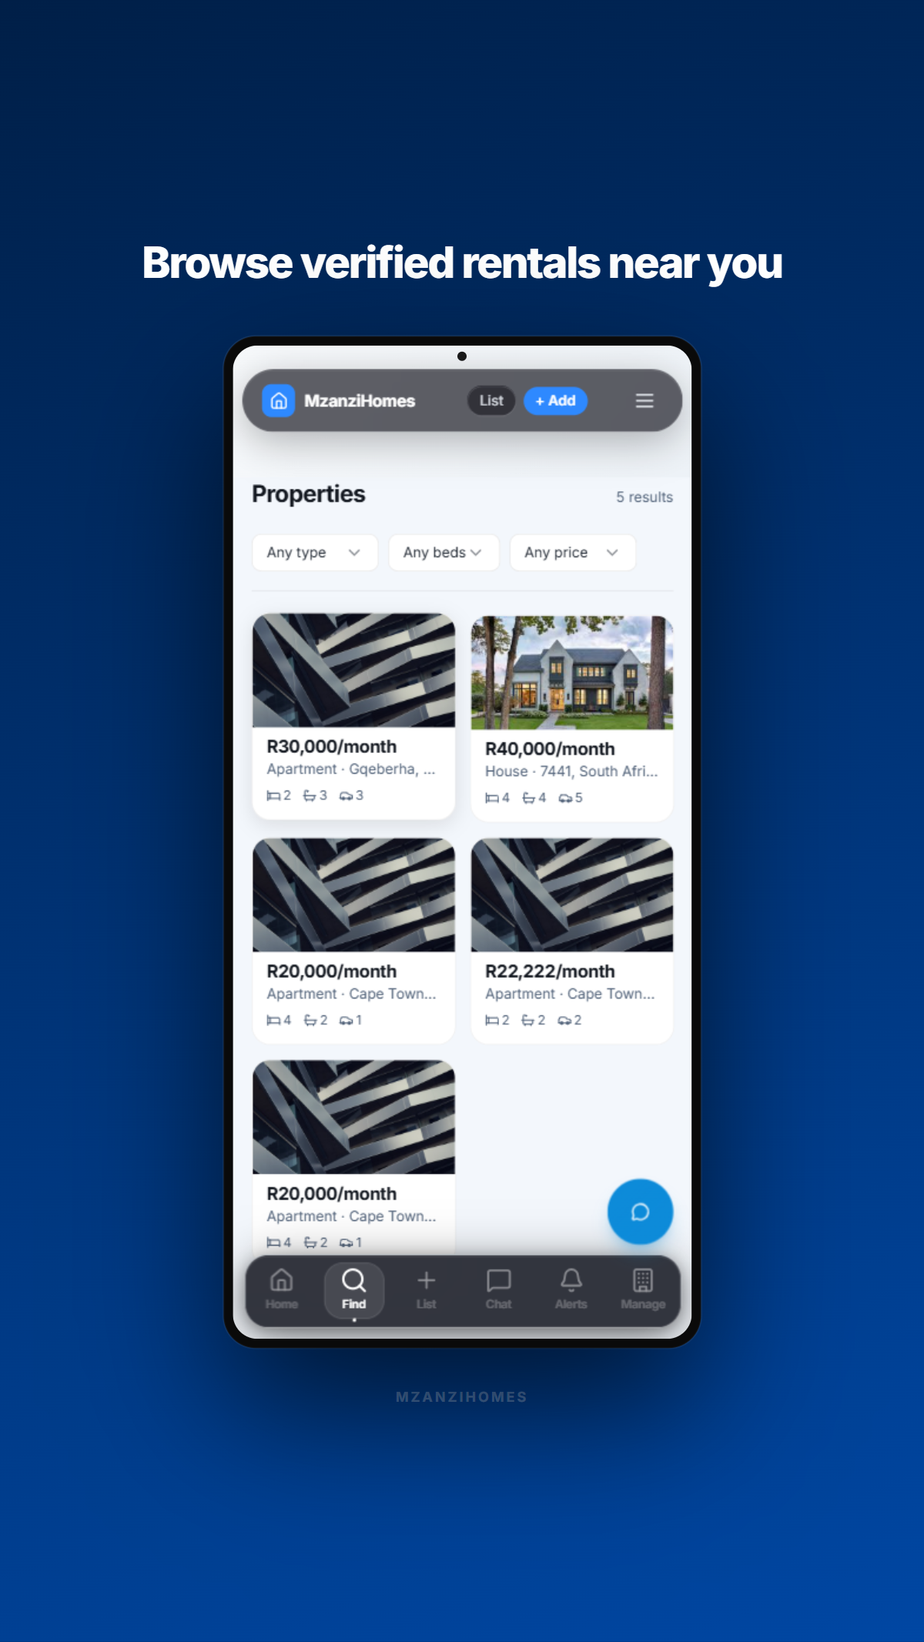
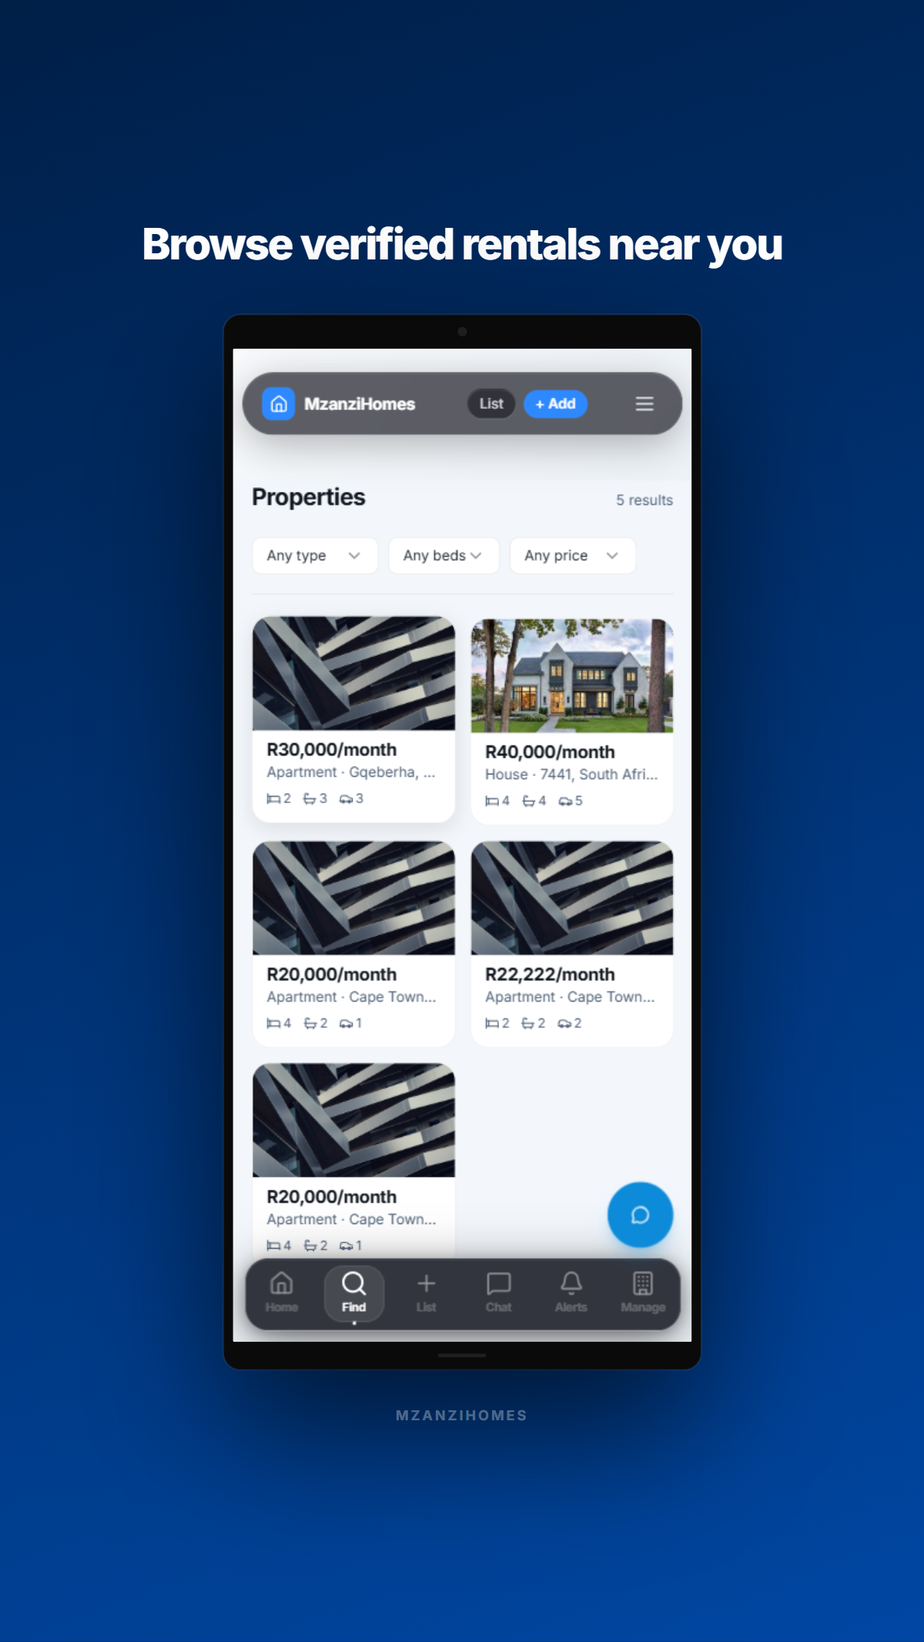
fix(play-store): redesign tablet frames to look distinct from phone
Replace phone-style rounded frame with proper tablet frame:
- Flat corners (border-radius 18px/22px vs phone 54px)
- Structured top bezel with centred camera dot
- Bottom bezel with home gesture bar
- Screen inset with straight edges

diff --git a/docs/play-store/screenshots/tablet10-3.html b/docs/play-store/screenshots/tablet10-3.html
@@ -3,14 +3,21 @@
 <style>
 *,*::before,*::after{box-sizing:border-box;margin:0;padding:0}
 body{width:1200px;height:2133px;overflow:hidden;background:linear-gradient(160deg,hsl(214,100%,14%) 0%,hsl(214,100%,32%) 100%);font-family:'Inter',-apple-system,sans-serif;display:flex;flex-direction:column;align-items:center;justify-content:center;padding:100px 80px}
-.caption{color:white;font-size:56px;font-weight:800;text-align:center;line-height:1.15;margin-bottom:64px;letter-spacing:-2px;max-width:1000px}
-.tablet{width:620px;background:#0a0a0a;border-radius:42px;padding:12px;box-shadow:0 80px 180px rgba(0,0,0,0.65),0 0 0 1.5px rgba(255,255,255,0.08),inset 0 0 0 1px rgba(255,255,255,0.04);position:relative}
-.camera{position:absolute;top:20px;left:50%;transform:translateX(-50%);width:12px;height:12px;background:#1a1a1a;border-radius:50%;z-index:10}
-.screen{border-radius:32px;overflow:hidden;width:100%}
+.caption{color:white;font-size:56px;font-weight:800;text-align:center;line-height:1.15;margin-bottom:60px;letter-spacing:-2px;max-width:1000px}
+.tablet{width:620px;background:#0a0a0a;border-radius:22px;box-shadow:0 80px 180px rgba(0,0,0,0.65),0 0 0 1.5px rgba(255,255,255,0.08),inset 0 0 0 1px rgba(255,255,255,0.04);display:flex;flex-direction:column}
+.t-bar{height:44px;display:flex;align-items:center;justify-content:center;flex-shrink:0}
+.cam{width:12px;height:12px;background:#1e1e1e;border-radius:50%}
+.screen{margin:0 12px;overflow:hidden;border-radius:2px}
 .screen img{width:100%;display:block}
-.brand{color:rgba(255,255,255,0.3);font-size:18px;font-weight:700;margin-top:52px;letter-spacing:3px;text-transform:uppercase}
+.b-bar{height:36px;display:flex;align-items:center;justify-content:center;flex-shrink:0}
+.home{width:62px;height:5px;background:#1e1e1e;border-radius:3px}
+.brand{color:rgba(255,255,255,0.3);font-size:18px;font-weight:700;margin-top:48px;letter-spacing:3px;text-transform:uppercase}
 </style></head><body>
 <div class="caption">Everything you need to decide</div>
-<div class="tablet"><div class="camera"></div><div class="screen"><img src="raw-2-property-detail.png"/></div></div>
+<div class="tablet">
+  <div class="t-bar"><div class="cam"></div></div>
+  <div class="screen"><img src="raw-2-property-detail.png"/></div>
+  <div class="b-bar"><div class="home"></div></div>
+</div>
 <div class="brand">MzanziHomes</div>
 </body></html>

diff --git a/docs/play-store/screenshots/tablet10-4.html b/docs/play-store/screenshots/tablet10-4.html
@@ -3,14 +3,21 @@
 <style>
 *,*::before,*::after{box-sizing:border-box;margin:0;padding:0}
 body{width:1200px;height:2133px;overflow:hidden;background:linear-gradient(160deg,hsl(214,100%,14%) 0%,hsl(214,100%,32%) 100%);font-family:'Inter',-apple-system,sans-serif;display:flex;flex-direction:column;align-items:center;justify-content:center;padding:100px 80px}
-.caption{color:white;font-size:56px;font-weight:800;text-align:center;line-height:1.15;margin-bottom:64px;letter-spacing:-2px;max-width:1000px}
-.tablet{width:620px;background:#0a0a0a;border-radius:42px;padding:12px;box-shadow:0 80px 180px rgba(0,0,0,0.65),0 0 0 1.5px rgba(255,255,255,0.08),inset 0 0 0 1px rgba(255,255,255,0.04);position:relative}
-.camera{position:absolute;top:20px;left:50%;transform:translateX(-50%);width:12px;height:12px;background:#1a1a1a;border-radius:50%;z-index:10}
-.screen{border-radius:32px;overflow:hidden;width:100%}
+.caption{color:white;font-size:56px;font-weight:800;text-align:center;line-height:1.15;margin-bottom:60px;letter-spacing:-2px;max-width:1000px}
+.tablet{width:620px;background:#0a0a0a;border-radius:22px;box-shadow:0 80px 180px rgba(0,0,0,0.65),0 0 0 1.5px rgba(255,255,255,0.08),inset 0 0 0 1px rgba(255,255,255,0.04);display:flex;flex-direction:column}
+.t-bar{height:44px;display:flex;align-items:center;justify-content:center;flex-shrink:0}
+.cam{width:12px;height:12px;background:#1e1e1e;border-radius:50%}
+.screen{margin:0 12px;overflow:hidden;border-radius:2px}
 .screen img{width:100%;display:block}
-.brand{color:rgba(255,255,255,0.3);font-size:18px;font-weight:700;margin-top:52px;letter-spacing:3px;text-transform:uppercase}
+.b-bar{height:36px;display:flex;align-items:center;justify-content:center;flex-shrink:0}
+.home{width:62px;height:5px;background:#1e1e1e;border-radius:3px}
+.brand{color:rgba(255,255,255,0.3);font-size:18px;font-weight:700;margin-top:48px;letter-spacing:3px;text-transform:uppercase}
 </style></head><body>
 <div class="caption">Manage all your properties in one place</div>
-<div class="tablet"><div class="camera"></div><div class="screen"><img src="raw-3-dashboard.png"/></div></div>
+<div class="tablet">
+  <div class="t-bar"><div class="cam"></div></div>
+  <div class="screen"><img src="raw-3-dashboard.png"/></div>
+  <div class="b-bar"><div class="home"></div></div>
+</div>
 <div class="brand">MzanziHomes</div>
 </body></html>

diff --git a/docs/play-store/screenshots/tablet7-3.html b/docs/play-store/screenshots/tablet7-3.html
@@ -3,14 +3,21 @@
 <style>
 *,*::before,*::after{box-sizing:border-box;margin:0;padding:0}
 body{width:1080px;height:1920px;overflow:hidden;background:linear-gradient(160deg,hsl(214,100%,14%) 0%,hsl(214,100%,32%) 100%);font-family:'Inter',-apple-system,sans-serif;display:flex;flex-direction:column;align-items:center;justify-content:center;padding:80px 60px}
-.caption{color:white;font-size:48px;font-weight:800;text-align:center;line-height:1.15;margin-bottom:56px;letter-spacing:-2px;max-width:900px}
-.tablet{width:520px;background:#0a0a0a;border-radius:36px;padding:10px;box-shadow:0 60px 140px rgba(0,0,0,0.65),0 0 0 1.5px rgba(255,255,255,0.08),inset 0 0 0 1px rgba(255,255,255,0.04);position:relative}
-.camera{position:absolute;top:18px;left:50%;transform:translateX(-50%);width:10px;height:10px;background:#1a1a1a;border-radius:50%;z-index:10}
-.screen{border-radius:28px;overflow:hidden;width:100%}
+.caption{color:white;font-size:48px;font-weight:800;text-align:center;line-height:1.15;margin-bottom:52px;letter-spacing:-2px;max-width:900px}
+.tablet{width:520px;background:#0a0a0a;border-radius:18px;box-shadow:0 60px 140px rgba(0,0,0,0.65),0 0 0 1.5px rgba(255,255,255,0.08),inset 0 0 0 1px rgba(255,255,255,0.04);display:flex;flex-direction:column}
+.t-bar{height:36px;display:flex;align-items:center;justify-content:center;flex-shrink:0}
+.cam{width:10px;height:10px;background:#1e1e1e;border-radius:50%}
+.screen{margin:0 10px;overflow:hidden;border-radius:2px}
 .screen img{width:100%;display:block}
-.brand{color:rgba(255,255,255,0.3);font-size:16px;font-weight:700;margin-top:44px;letter-spacing:3px;text-transform:uppercase}
+.b-bar{height:28px;display:flex;align-items:center;justify-content:center;flex-shrink:0}
+.home{width:52px;height:4px;background:#1e1e1e;border-radius:2px}
+.brand{color:rgba(255,255,255,0.3);font-size:16px;font-weight:700;margin-top:40px;letter-spacing:3px;text-transform:uppercase}
 </style></head><body>
 <div class="caption">Everything you need to decide</div>
-<div class="tablet"><div class="camera"></div><div class="screen"><img src="raw-2-property-detail.png"/></div></div>
+<div class="tablet">
+  <div class="t-bar"><div class="cam"></div></div>
+  <div class="screen"><img src="raw-2-property-detail.png"/></div>
+  <div class="b-bar"><div class="home"></div></div>
+</div>
 <div class="brand">MzanziHomes</div>
 </body></html>

diff --git a/docs/play-store/screenshots/tablet7-4.html b/docs/play-store/screenshots/tablet7-4.html
@@ -3,14 +3,21 @@
 <style>
 *,*::before,*::after{box-sizing:border-box;margin:0;padding:0}
 body{width:1080px;height:1920px;overflow:hidden;background:linear-gradient(160deg,hsl(214,100%,14%) 0%,hsl(214,100%,32%) 100%);font-family:'Inter',-apple-system,sans-serif;display:flex;flex-direction:column;align-items:center;justify-content:center;padding:80px 60px}
-.caption{color:white;font-size:48px;font-weight:800;text-align:center;line-height:1.15;margin-bottom:56px;letter-spacing:-2px;max-width:900px}
-.tablet{width:520px;background:#0a0a0a;border-radius:36px;padding:10px;box-shadow:0 60px 140px rgba(0,0,0,0.65),0 0 0 1.5px rgba(255,255,255,0.08),inset 0 0 0 1px rgba(255,255,255,0.04);position:relative}
-.camera{position:absolute;top:18px;left:50%;transform:translateX(-50%);width:10px;height:10px;background:#1a1a1a;border-radius:50%;z-index:10}
-.screen{border-radius:28px;overflow:hidden;width:100%}
+.caption{color:white;font-size:48px;font-weight:800;text-align:center;line-height:1.15;margin-bottom:52px;letter-spacing:-2px;max-width:900px}
+.tablet{width:520px;background:#0a0a0a;border-radius:18px;box-shadow:0 60px 140px rgba(0,0,0,0.65),0 0 0 1.5px rgba(255,255,255,0.08),inset 0 0 0 1px rgba(255,255,255,0.04);display:flex;flex-direction:column}
+.t-bar{height:36px;display:flex;align-items:center;justify-content:center;flex-shrink:0}
+.cam{width:10px;height:10px;background:#1e1e1e;border-radius:50%}
+.screen{margin:0 10px;overflow:hidden;border-radius:2px}
 .screen img{width:100%;display:block}
-.brand{color:rgba(255,255,255,0.3);font-size:16px;font-weight:700;margin-top:44px;letter-spacing:3px;text-transform:uppercase}
+.b-bar{height:28px;display:flex;align-items:center;justify-content:center;flex-shrink:0}
+.home{width:52px;height:4px;background:#1e1e1e;border-radius:2px}
+.brand{color:rgba(255,255,255,0.3);font-size:16px;font-weight:700;margin-top:40px;letter-spacing:3px;text-transform:uppercase}
 </style></head><body>
 <div class="caption">Manage all your properties in one place</div>
-<div class="tablet"><div class="camera"></div><div class="screen"><img src="raw-3-dashboard.png"/></div></div>
+<div class="tablet">
+  <div class="t-bar"><div class="cam"></div></div>
+  <div class="screen"><img src="raw-3-dashboard.png"/></div>
+  <div class="b-bar"><div class="home"></div></div>
+</div>
 <div class="brand">MzanziHomes</div>
 </body></html>

diff --git a/docs/play-store/screenshots/tablet10-2.html b/docs/play-store/screenshots/tablet10-2.html
@@ -3,14 +3,21 @@
 <style>
 *,*::before,*::after{box-sizing:border-box;margin:0;padding:0}
 body{width:1200px;height:2133px;overflow:hidden;background:linear-gradient(160deg,hsl(214,100%,14%) 0%,hsl(214,100%,32%) 100%);font-family:'Inter',-apple-system,sans-serif;display:flex;flex-direction:column;align-items:center;justify-content:center;padding:100px 80px}
-.caption{color:white;font-size:56px;font-weight:800;text-align:center;line-height:1.15;margin-bottom:64px;letter-spacing:-2px;max-width:1000px}
-.tablet{width:620px;background:#0a0a0a;border-radius:42px;padding:12px;box-shadow:0 80px 180px rgba(0,0,0,0.65),0 0 0 1.5px rgba(255,255,255,0.08),inset 0 0 0 1px rgba(255,255,255,0.04);position:relative}
-.camera{position:absolute;top:20px;left:50%;transform:translateX(-50%);width:12px;height:12px;background:#1a1a1a;border-radius:50%;z-index:10}
-.screen{border-radius:32px;overflow:hidden;width:100%}
+.caption{color:white;font-size:56px;font-weight:800;text-align:center;line-height:1.15;margin-bottom:60px;letter-spacing:-2px;max-width:1000px}
+.tablet{width:620px;background:#0a0a0a;border-radius:22px;box-shadow:0 80px 180px rgba(0,0,0,0.65),0 0 0 1.5px rgba(255,255,255,0.08),inset 0 0 0 1px rgba(255,255,255,0.04);display:flex;flex-direction:column}
+.t-bar{height:44px;display:flex;align-items:center;justify-content:center;flex-shrink:0}
+.cam{width:12px;height:12px;background:#1e1e1e;border-radius:50%}
+.screen{margin:0 12px;overflow:hidden;border-radius:2px}
 .screen img{width:100%;display:block}
-.brand{color:rgba(255,255,255,0.3);font-size:18px;font-weight:700;margin-top:52px;letter-spacing:3px;text-transform:uppercase}
+.b-bar{height:36px;display:flex;align-items:center;justify-content:center;flex-shrink:0}
+.home{width:62px;height:5px;background:#1e1e1e;border-radius:3px}
+.brand{color:rgba(255,255,255,0.3);font-size:18px;font-weight:700;margin-top:48px;letter-spacing:3px;text-transform:uppercase}
 </style></head><body>
 <div class="caption">Browse verified rentals near you</div>
-<div class="tablet"><div class="camera"></div><div class="screen"><img src="raw-1-properties.png"/></div></div>
+<div class="tablet">
+  <div class="t-bar"><div class="cam"></div></div>
+  <div class="screen"><img src="raw-1-properties.png"/></div>
+  <div class="b-bar"><div class="home"></div></div>
+</div>
 <div class="brand">MzanziHomes</div>
 </body></html>

diff --git a/docs/play-store/screenshots/tablet7-2.html b/docs/play-store/screenshots/tablet7-2.html
@@ -3,14 +3,21 @@
 <style>
 *,*::before,*::after{box-sizing:border-box;margin:0;padding:0}
 body{width:1080px;height:1920px;overflow:hidden;background:linear-gradient(160deg,hsl(214,100%,14%) 0%,hsl(214,100%,32%) 100%);font-family:'Inter',-apple-system,sans-serif;display:flex;flex-direction:column;align-items:center;justify-content:center;padding:80px 60px}
-.caption{color:white;font-size:48px;font-weight:800;text-align:center;line-height:1.15;margin-bottom:56px;letter-spacing:-2px;max-width:900px}
-.tablet{width:520px;background:#0a0a0a;border-radius:36px;padding:10px;box-shadow:0 60px 140px rgba(0,0,0,0.65),0 0 0 1.5px rgba(255,255,255,0.08),inset 0 0 0 1px rgba(255,255,255,0.04);position:relative}
-.camera{position:absolute;top:18px;left:50%;transform:translateX(-50%);width:10px;height:10px;background:#1a1a1a;border-radius:50%;z-index:10}
-.screen{border-radius:28px;overflow:hidden;width:100%}
+.caption{color:white;font-size:48px;font-weight:800;text-align:center;line-height:1.15;margin-bottom:52px;letter-spacing:-2px;max-width:900px}
+.tablet{width:520px;background:#0a0a0a;border-radius:18px;box-shadow:0 60px 140px rgba(0,0,0,0.65),0 0 0 1.5px rgba(255,255,255,0.08),inset 0 0 0 1px rgba(255,255,255,0.04);display:flex;flex-direction:column}
+.t-bar{height:36px;display:flex;align-items:center;justify-content:center;flex-shrink:0}
+.cam{width:10px;height:10px;background:#1e1e1e;border-radius:50%}
+.screen{margin:0 10px;overflow:hidden;border-radius:2px}
 .screen img{width:100%;display:block}
-.brand{color:rgba(255,255,255,0.3);font-size:16px;font-weight:700;margin-top:44px;letter-spacing:3px;text-transform:uppercase}
+.b-bar{height:28px;display:flex;align-items:center;justify-content:center;flex-shrink:0}
+.home{width:52px;height:4px;background:#1e1e1e;border-radius:2px}
+.brand{color:rgba(255,255,255,0.3);font-size:16px;font-weight:700;margin-top:40px;letter-spacing:3px;text-transform:uppercase}
 </style></head><body>
 <div class="caption">Browse verified rentals near you</div>
-<div class="tablet"><div class="camera"></div><div class="screen"><img src="raw-1-properties.png"/></div></div>
+<div class="tablet">
+  <div class="t-bar"><div class="cam"></div></div>
+  <div class="screen"><img src="raw-1-properties.png"/></div>
+  <div class="b-bar"><div class="home"></div></div>
+</div>
 <div class="brand">MzanziHomes</div>
 </body></html>

diff --git a/docs/play-store/screenshots/tablet10-1.html b/docs/play-store/screenshots/tablet10-1.html
@@ -3,14 +3,21 @@
 <style>
 *,*::before,*::after{box-sizing:border-box;margin:0;padding:0}
 body{width:1200px;height:2133px;overflow:hidden;background:linear-gradient(160deg,hsl(214,100%,14%) 0%,hsl(214,100%,32%) 100%);font-family:'Inter',-apple-system,sans-serif;display:flex;flex-direction:column;align-items:center;justify-content:center;padding:100px 80px}
-.caption{color:white;font-size:56px;font-weight:800;text-align:center;line-height:1.15;margin-bottom:64px;letter-spacing:-2px;max-width:1000px}
-.tablet{width:620px;background:#0a0a0a;border-radius:42px;padding:12px;box-shadow:0 80px 180px rgba(0,0,0,0.65),0 0 0 1.5px rgba(255,255,255,0.08),inset 0 0 0 1px rgba(255,255,255,0.04);position:relative}
-.camera{position:absolute;top:20px;left:50%;transform:translateX(-50%);width:12px;height:12px;background:#1a1a1a;border-radius:50%;z-index:10}
-.screen{border-radius:32px;overflow:hidden;width:100%}
+.caption{color:white;font-size:56px;font-weight:800;text-align:center;line-height:1.15;margin-bottom:60px;letter-spacing:-2px;max-width:1000px}
+.tablet{width:620px;background:#0a0a0a;border-radius:22px;box-shadow:0 80px 180px rgba(0,0,0,0.65),0 0 0 1.5px rgba(255,255,255,0.08),inset 0 0 0 1px rgba(255,255,255,0.04);display:flex;flex-direction:column}
+.t-bar{height:44px;display:flex;align-items:center;justify-content:center;flex-shrink:0}
+.cam{width:12px;height:12px;background:#1e1e1e;border-radius:50%}
+.screen{margin:0 12px;overflow:hidden;border-radius:2px}
 .screen img{width:100%;display:block}
-.brand{color:rgba(255,255,255,0.3);font-size:18px;font-weight:700;margin-top:52px;letter-spacing:3px;text-transform:uppercase}
+.b-bar{height:36px;display:flex;align-items:center;justify-content:center;flex-shrink:0}
+.home{width:62px;height:5px;background:#1e1e1e;border-radius:3px}
+.brand{color:rgba(255,255,255,0.3);font-size:18px;font-weight:700;margin-top:48px;letter-spacing:3px;text-transform:uppercase}
 </style></head><body>
 <div class="caption">Find your perfect home in South Africa</div>
-<div class="tablet"><div class="camera"></div><div class="screen"><img src="raw-0-home.png"/></div></div>
+<div class="tablet">
+  <div class="t-bar"><div class="cam"></div></div>
+  <div class="screen"><img src="raw-0-home.png"/></div>
+  <div class="b-bar"><div class="home"></div></div>
+</div>
 <div class="brand">MzanziHomes</div>
 </body></html>

diff --git a/docs/play-store/screenshots/tablet7-1.html b/docs/play-store/screenshots/tablet7-1.html
@@ -3,14 +3,21 @@
 <style>
 *,*::before,*::after{box-sizing:border-box;margin:0;padding:0}
 body{width:1080px;height:1920px;overflow:hidden;background:linear-gradient(160deg,hsl(214,100%,14%) 0%,hsl(214,100%,32%) 100%);font-family:'Inter',-apple-system,sans-serif;display:flex;flex-direction:column;align-items:center;justify-content:center;padding:80px 60px}
-.caption{color:white;font-size:48px;font-weight:800;text-align:center;line-height:1.15;margin-bottom:56px;letter-spacing:-2px;max-width:900px}
-.tablet{width:520px;background:#0a0a0a;border-radius:36px;padding:10px;box-shadow:0 60px 140px rgba(0,0,0,0.65),0 0 0 1.5px rgba(255,255,255,0.08),inset 0 0 0 1px rgba(255,255,255,0.04);position:relative}
-.camera{position:absolute;top:18px;left:50%;transform:translateX(-50%);width:10px;height:10px;background:#1a1a1a;border-radius:50%;z-index:10}
-.screen{border-radius:28px;overflow:hidden;width:100%}
+.caption{color:white;font-size:48px;font-weight:800;text-align:center;line-height:1.15;margin-bottom:52px;letter-spacing:-2px;max-width:900px}
+.tablet{width:520px;background:#0a0a0a;border-radius:18px;box-shadow:0 60px 140px rgba(0,0,0,0.65),0 0 0 1.5px rgba(255,255,255,0.08),inset 0 0 0 1px rgba(255,255,255,0.04);display:flex;flex-direction:column}
+.t-bar{height:36px;display:flex;align-items:center;justify-content:center;flex-shrink:0}
+.cam{width:10px;height:10px;background:#1e1e1e;border-radius:50%}
+.screen{margin:0 10px;overflow:hidden;border-radius:2px}
 .screen img{width:100%;display:block}
-.brand{color:rgba(255,255,255,0.3);font-size:16px;font-weight:700;margin-top:44px;letter-spacing:3px;text-transform:uppercase}
+.b-bar{height:28px;display:flex;align-items:center;justify-content:center;flex-shrink:0}
+.home{width:52px;height:4px;background:#1e1e1e;border-radius:2px}
+.brand{color:rgba(255,255,255,0.3);font-size:16px;font-weight:700;margin-top:40px;letter-spacing:3px;text-transform:uppercase}
 </style></head><body>
 <div class="caption">Find your perfect home in South Africa</div>
-<div class="tablet"><div class="camera"></div><div class="screen"><img src="raw-0-home.png"/></div></div>
+<div class="tablet">
+  <div class="t-bar"><div class="cam"></div></div>
+  <div class="screen"><img src="raw-0-home.png"/></div>
+  <div class="b-bar"><div class="home"></div></div>
+</div>
 <div class="brand">MzanziHomes</div>
 </body></html>

diff --git a/docs/play-store/screenshots/tablet10-5.html b/docs/play-store/screenshots/tablet10-5.html
@@ -3,14 +3,21 @@
 <style>
 *,*::before,*::after{box-sizing:border-box;margin:0;padding:0}
 body{width:1200px;height:2133px;overflow:hidden;background:linear-gradient(160deg,hsl(214,100%,14%) 0%,hsl(214,100%,32%) 100%);font-family:'Inter',-apple-system,sans-serif;display:flex;flex-direction:column;align-items:center;justify-content:center;padding:100px 80px}
-.caption{color:white;font-size:56px;font-weight:800;text-align:center;line-height:1.15;margin-bottom:64px;letter-spacing:-2px;max-width:1000px}
-.tablet{width:620px;background:#0a0a0a;border-radius:42px;padding:12px;box-shadow:0 80px 180px rgba(0,0,0,0.65),0 0 0 1.5px rgba(255,255,255,0.08),inset 0 0 0 1px rgba(255,255,255,0.04);position:relative}
-.camera{position:absolute;top:20px;left:50%;transform:translateX(-50%);width:12px;height:12px;background:#1a1a1a;border-radius:50%;z-index:10}
-.screen{border-radius:32px;overflow:hidden;width:100%}
+.caption{color:white;font-size:56px;font-weight:800;text-align:center;line-height:1.15;margin-bottom:60px;letter-spacing:-2px;max-width:1000px}
+.tablet{width:620px;background:#0a0a0a;border-radius:22px;box-shadow:0 80px 180px rgba(0,0,0,0.65),0 0 0 1.5px rgba(255,255,255,0.08),inset 0 0 0 1px rgba(255,255,255,0.04);display:flex;flex-direction:column}
+.t-bar{height:44px;display:flex;align-items:center;justify-content:center;flex-shrink:0}
+.cam{width:12px;height:12px;background:#1e1e1e;border-radius:50%}
+.screen{margin:0 12px;overflow:hidden;border-radius:2px}
 .screen img{width:100%;display:block}
-.brand{color:rgba(255,255,255,0.3);font-size:18px;font-weight:700;margin-top:52px;letter-spacing:3px;text-transform:uppercase}
+.b-bar{height:36px;display:flex;align-items:center;justify-content:center;flex-shrink:0}
+.home{width:62px;height:5px;background:#1e1e1e;border-radius:3px}
+.brand{color:rgba(255,255,255,0.3);font-size:18px;font-weight:700;margin-top:48px;letter-spacing:3px;text-transform:uppercase}
 </style></head><body>
 <div class="caption">Get started in seconds</div>
-<div class="tablet"><div class="camera"></div><div class="screen"><img src="raw-auth.png"/></div></div>
+<div class="tablet">
+  <div class="t-bar"><div class="cam"></div></div>
+  <div class="screen"><img src="raw-auth.png"/></div>
+  <div class="b-bar"><div class="home"></div></div>
+</div>
 <div class="brand">MzanziHomes</div>
 </body></html>

diff --git a/docs/play-store/screenshots/tablet7-5.html b/docs/play-store/screenshots/tablet7-5.html
@@ -3,14 +3,21 @@
 <style>
 *,*::before,*::after{box-sizing:border-box;margin:0;padding:0}
 body{width:1080px;height:1920px;overflow:hidden;background:linear-gradient(160deg,hsl(214,100%,14%) 0%,hsl(214,100%,32%) 100%);font-family:'Inter',-apple-system,sans-serif;display:flex;flex-direction:column;align-items:center;justify-content:center;padding:80px 60px}
-.caption{color:white;font-size:48px;font-weight:800;text-align:center;line-height:1.15;margin-bottom:56px;letter-spacing:-2px;max-width:900px}
-.tablet{width:520px;background:#0a0a0a;border-radius:36px;padding:10px;box-shadow:0 60px 140px rgba(0,0,0,0.65),0 0 0 1.5px rgba(255,255,255,0.08),inset 0 0 0 1px rgba(255,255,255,0.04);position:relative}
-.camera{position:absolute;top:18px;left:50%;transform:translateX(-50%);width:10px;height:10px;background:#1a1a1a;border-radius:50%;z-index:10}
-.screen{border-radius:28px;overflow:hidden;width:100%}
+.caption{color:white;font-size:48px;font-weight:800;text-align:center;line-height:1.15;margin-bottom:52px;letter-spacing:-2px;max-width:900px}
+.tablet{width:520px;background:#0a0a0a;border-radius:18px;box-shadow:0 60px 140px rgba(0,0,0,0.65),0 0 0 1.5px rgba(255,255,255,0.08),inset 0 0 0 1px rgba(255,255,255,0.04);display:flex;flex-direction:column}
+.t-bar{height:36px;display:flex;align-items:center;justify-content:center;flex-shrink:0}
+.cam{width:10px;height:10px;background:#1e1e1e;border-radius:50%}
+.screen{margin:0 10px;overflow:hidden;border-radius:2px}
 .screen img{width:100%;display:block}
-.brand{color:rgba(255,255,255,0.3);font-size:16px;font-weight:700;margin-top:44px;letter-spacing:3px;text-transform:uppercase}
+.b-bar{height:28px;display:flex;align-items:center;justify-content:center;flex-shrink:0}
+.home{width:52px;height:4px;background:#1e1e1e;border-radius:2px}
+.brand{color:rgba(255,255,255,0.3);font-size:16px;font-weight:700;margin-top:40px;letter-spacing:3px;text-transform:uppercase}
 </style></head><body>
 <div class="caption">Get started in seconds</div>
-<div class="tablet"><div class="camera"></div><div class="screen"><img src="raw-auth.png"/></div></div>
+<div class="tablet">
+  <div class="t-bar"><div class="cam"></div></div>
+  <div class="screen"><img src="raw-auth.png"/></div>
+  <div class="b-bar"><div class="home"></div></div>
+</div>
 <div class="brand">MzanziHomes</div>
 </body></html>
